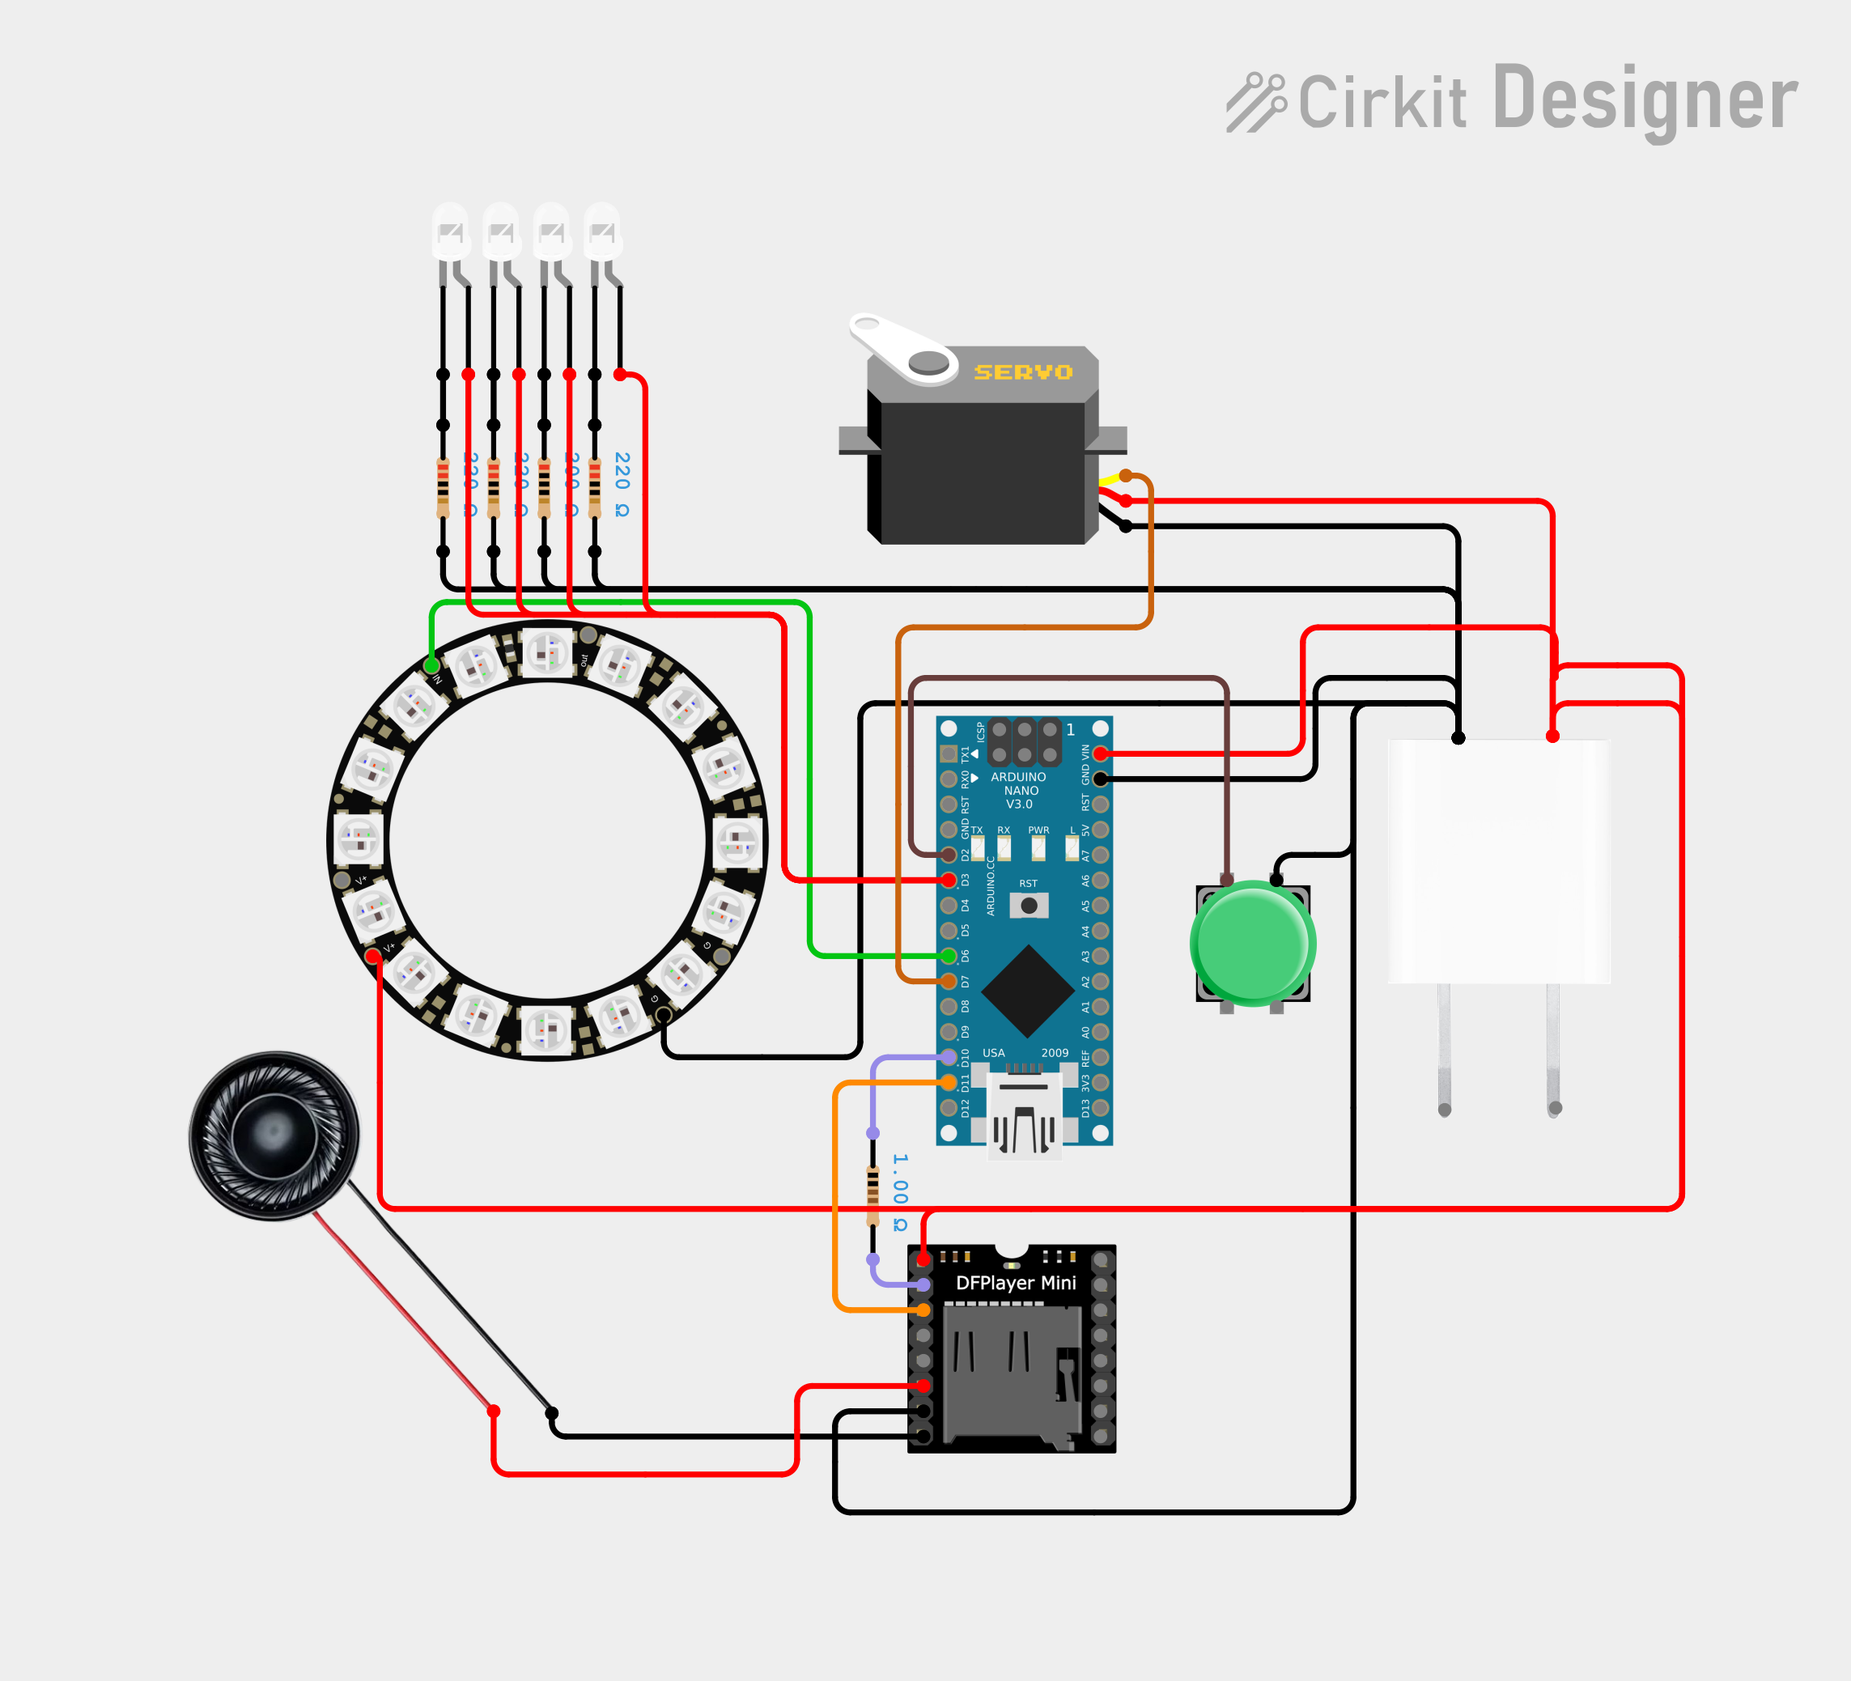
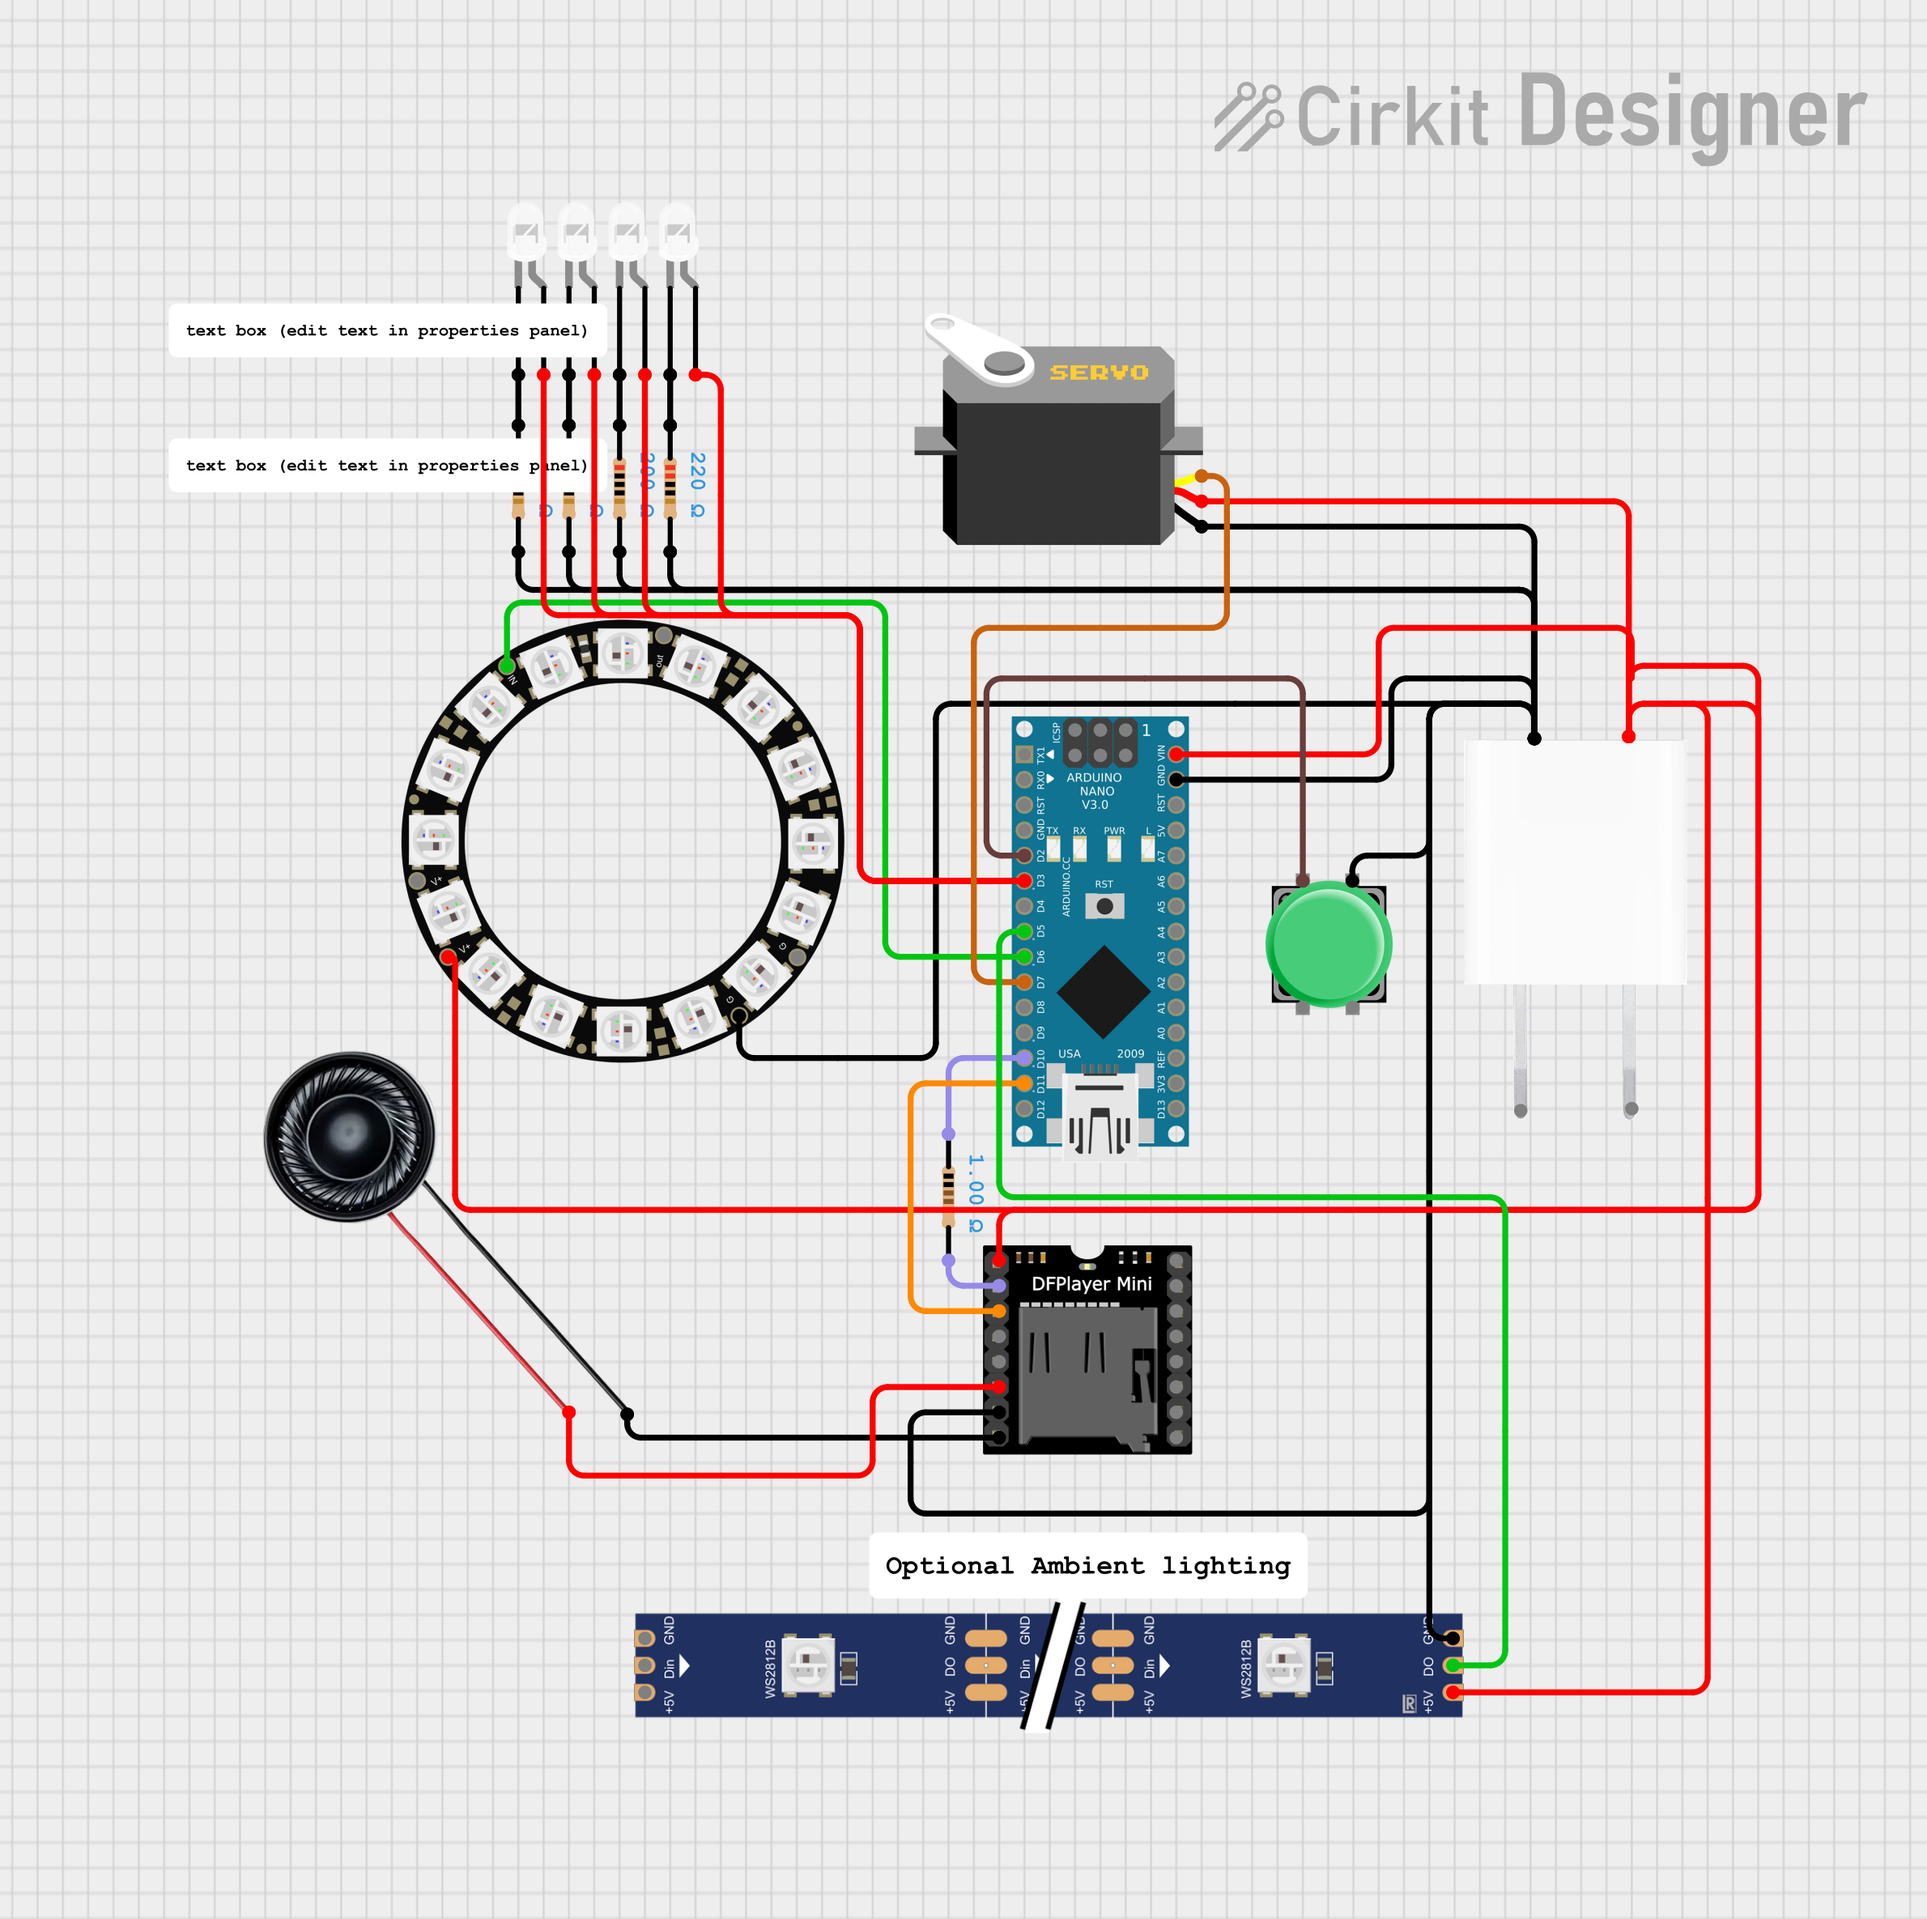
adjusted light counts

Changed region(s): [[0.0931, 0.1233, 0.9314, 0.9244], [0.6209, 0.0308, 0.9624, 0.0924]]

diff --git a/README.md b/README.md
@@ -16,9 +16,10 @@ Special thanks to Dan Massey for creating the original code and concept for this
 - **Two-Phase Show**: Slower first half, faster second half drumming sequences
 
 ### 💡 LED Effects
-- **NeoPixel Strip**: 31 addressable RGB LEDs with multiple animation modes
+- **Main NeoPixel Strip**: Addressable RGB LEDs with multiple animation modes
+- **Ambient NeoPixel Strip (New)**: Second WS2812 strip on its own pin for ambient lighting
 - **Show Effects**: Introduction lighting, color cycling, lightning effects, and finale sequences
-- **Idle Animation**: Beautiful 20-pixel rainbow wave that continuously flows across the strip
+- **Idle Animation**: Beautiful 20-pixel rainbow wave that continuously flows across both strips
 - **Eyes LED**: Simple indicator LED that shows when the show is active
 
 ### 🎮 Interactive Control
@@ -44,6 +45,7 @@ Special thanks to Dan Massey for creating the original code and concept for this
 Pin 2  → Button (other side to GND, uses internal pull-up)
 Pin 3  → Eyes LED (anode, cathode through 220Ω resistor to GND)
 Pin 6  → NeoPixel Data Line
+Pin 5  → Ambient NeoPixel Data Line (WS2812/WS2811)
 Pin 7  → Servo Signal Wire
 Pin 10 → DFPlayer RX (use inline 1k ohm resistor)
 Pin 11 → DFPlayer TX 
@@ -69,7 +71,7 @@ Install these libraries through the Arduino IDE Library Manager:
 1. Open Arduino IDE
 2. Go to **Sketch → Include Library → Manage Libraries**
 3. Search for and install each required library
-4. Upload the `Tiki_Drummers_Unified_working.ino` sketch to your Arduino
+4. Upload the `Tiki_Drummer_v2/Tiki_Drummer_v2.ino` sketch to your Arduino
 
 ## Configuration
 
@@ -89,8 +91,15 @@ int finaleArmDelay = 1000;         // Final arm position delay
 
 ### LED Configuration
 ```cpp
-#define NUM_PIXELS 31              // Number of NeoPixels in your strip
+// Main drum strip
+#define NEOPIXEL_PIN 6
+#define NUM_PIXELS 31
 strip.setBrightness(128);          // Global brightness (0-255)
+
+// Ambient strip (new)
+#define AMBIENT_PIN 5
+#define NUM_PIXELS_AMBIENT 30
+#define AMBIENT_BRIGHTNESS 64      // 0-255 (idle/show ambient brightness)
 ```
 
 ### Servo Calibration
@@ -124,18 +133,20 @@ int servoMax = 1900;               // Maximum servo position
 2. **First Half**: Slower drumming with color cycling
 3. **Transition**: Brief pause and LED reset
 4. **Second Half**: Faster drumming with rapid color changes
-5. **Lightning Effect**: 40 rapid white flashes
+5. **Lightning Effect**: 40 rapid white flashes (ambient strip turns OFF right before this effect)
 6. **Finale**: Final arm position and LED shutdown
 
 ## Customization
 
 ### Idle Animation
-The idle mode features a 20-pixel rainbow wave. Modify these parameters:
+The idle mode features a 20-pixel rainbow wave and now mirrors across both the main and ambient strips. Modify these parameters:
 ```cpp
 int waveLength = 20;               // Number of pixels in wave
 int idleAnimationDelay = 150;      // Animation update speed (ms)
 float fadeStep = 0.02;             // Fade-in speed
 ```
+
+Tip: Adjust `AMBIENT_BRIGHTNESS` if you want the ambient strip dimmer/brighter during idle.
 
 ### Color Effects
 The system uses a color wheel function for smooth rainbow transitions. The `Wheel()` function generates colors from 0-255 for seamless color cycling.
